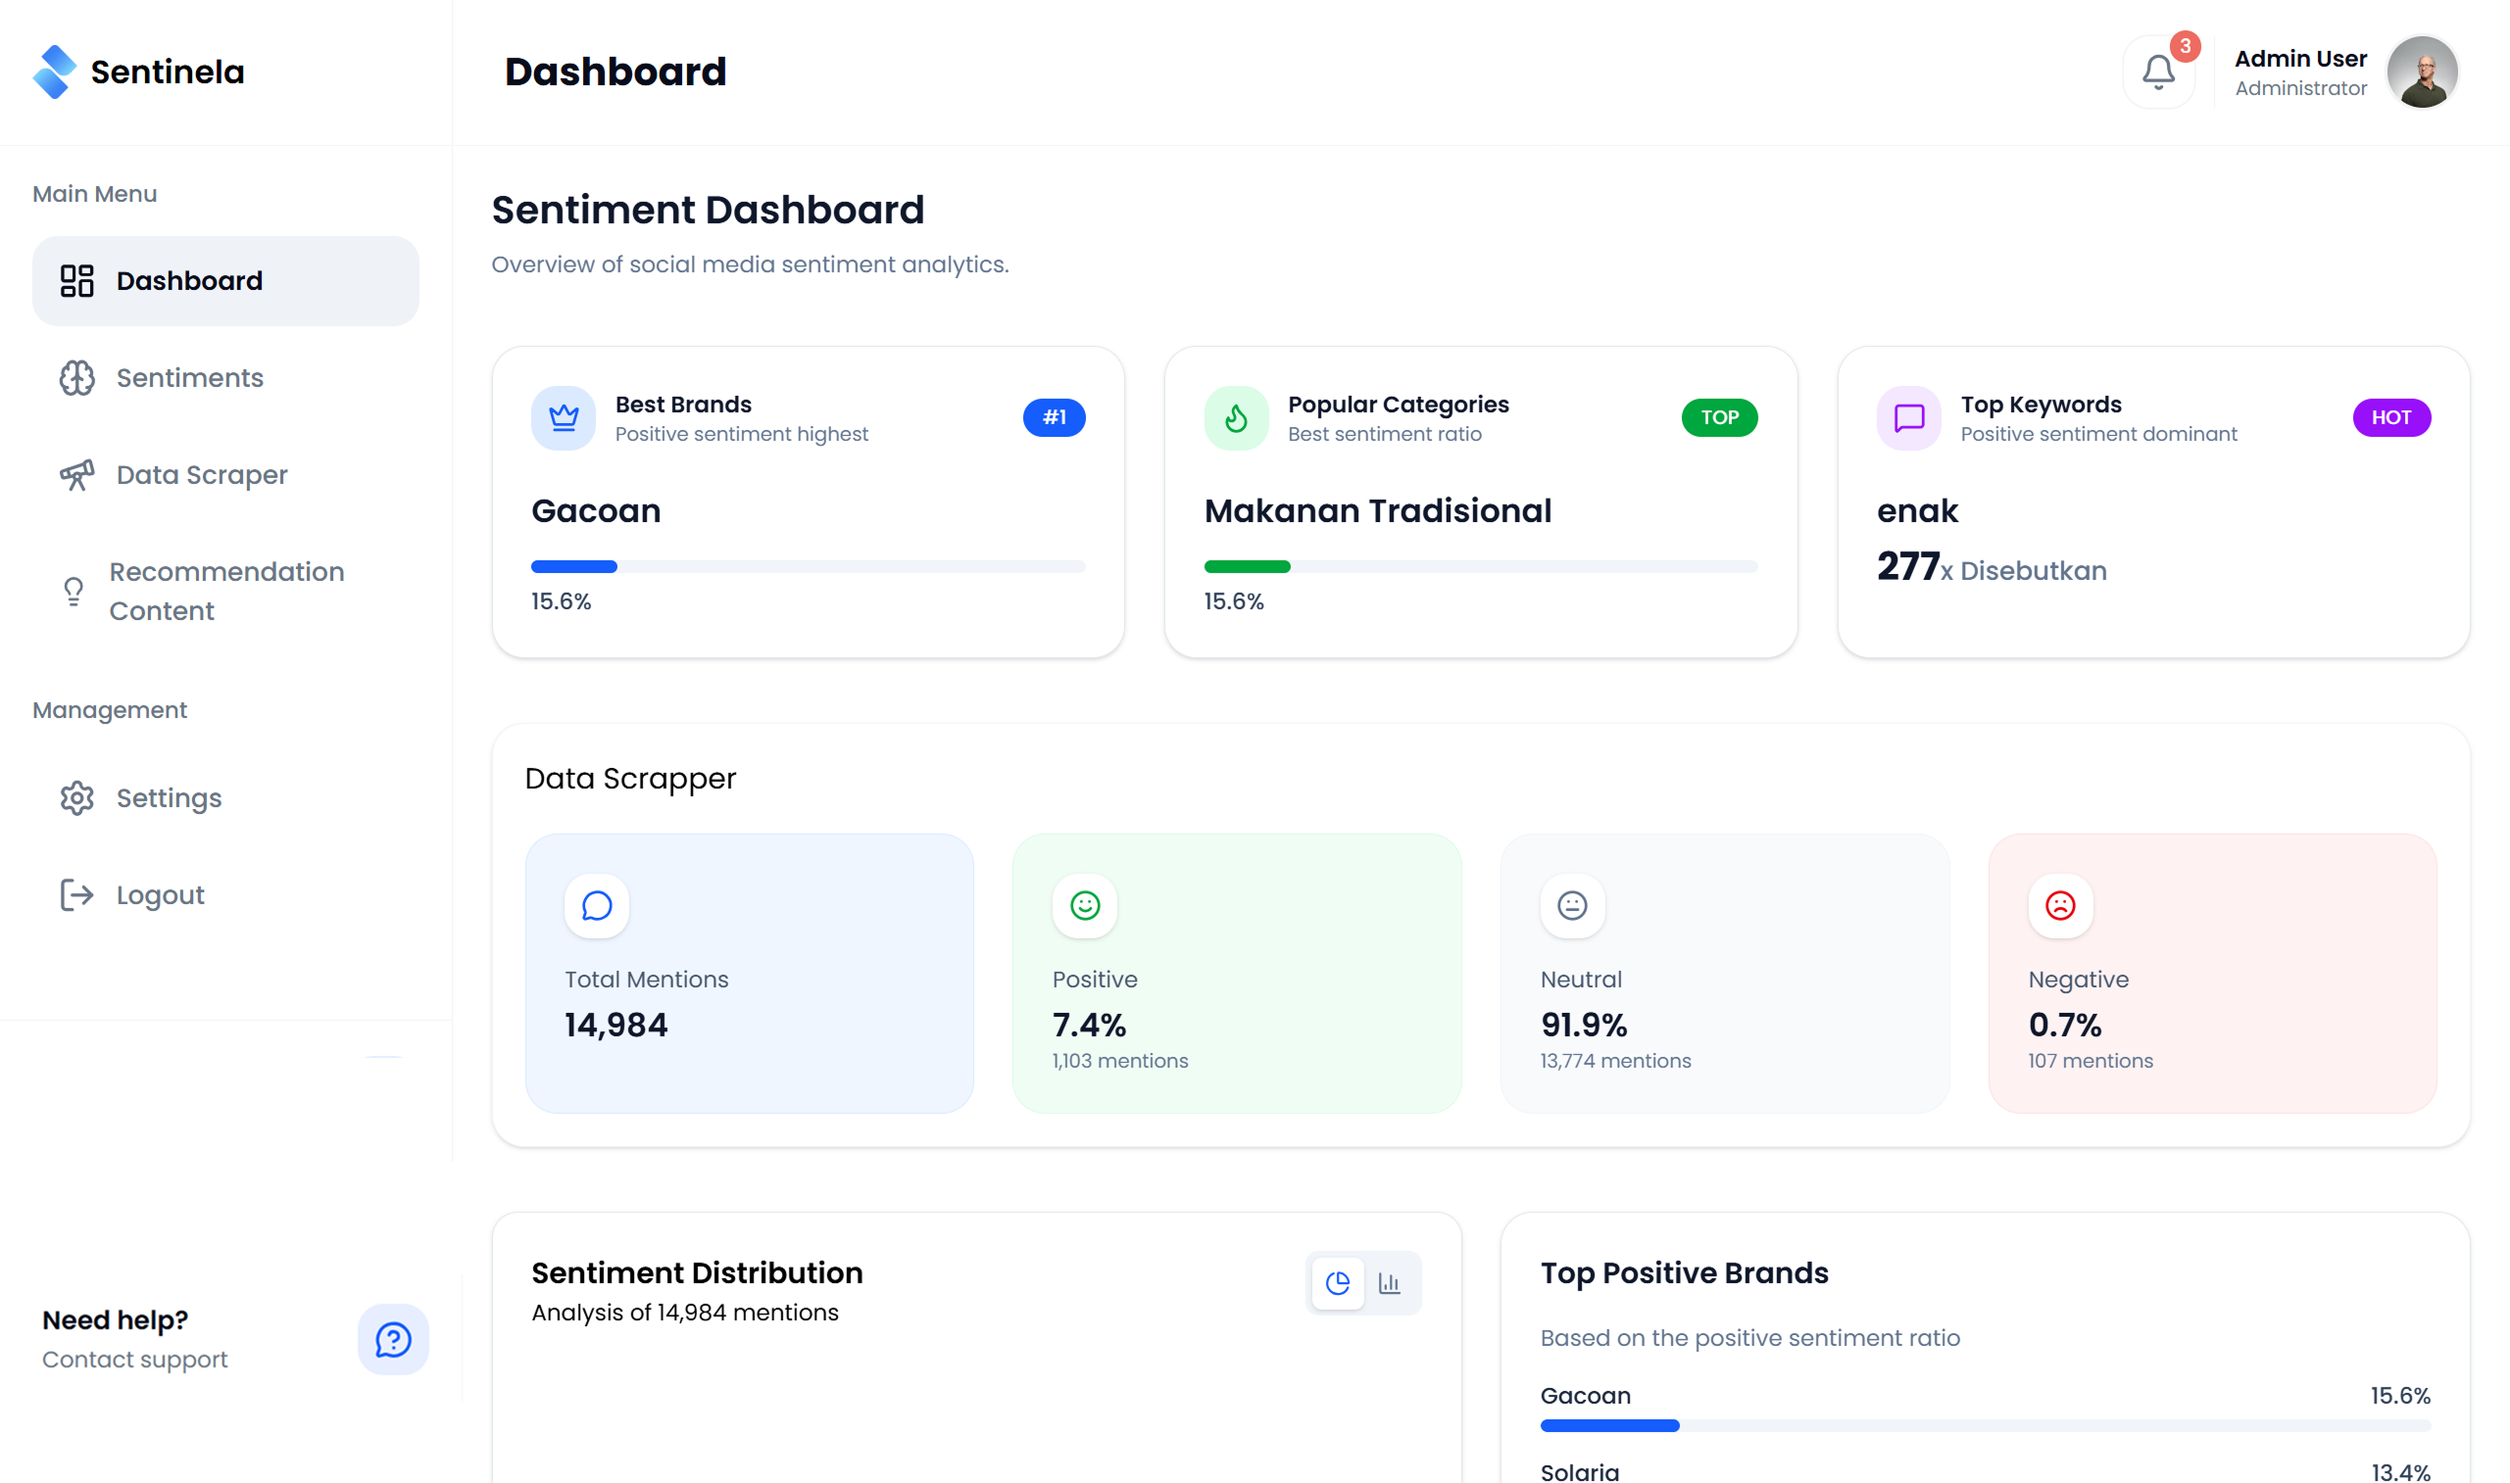
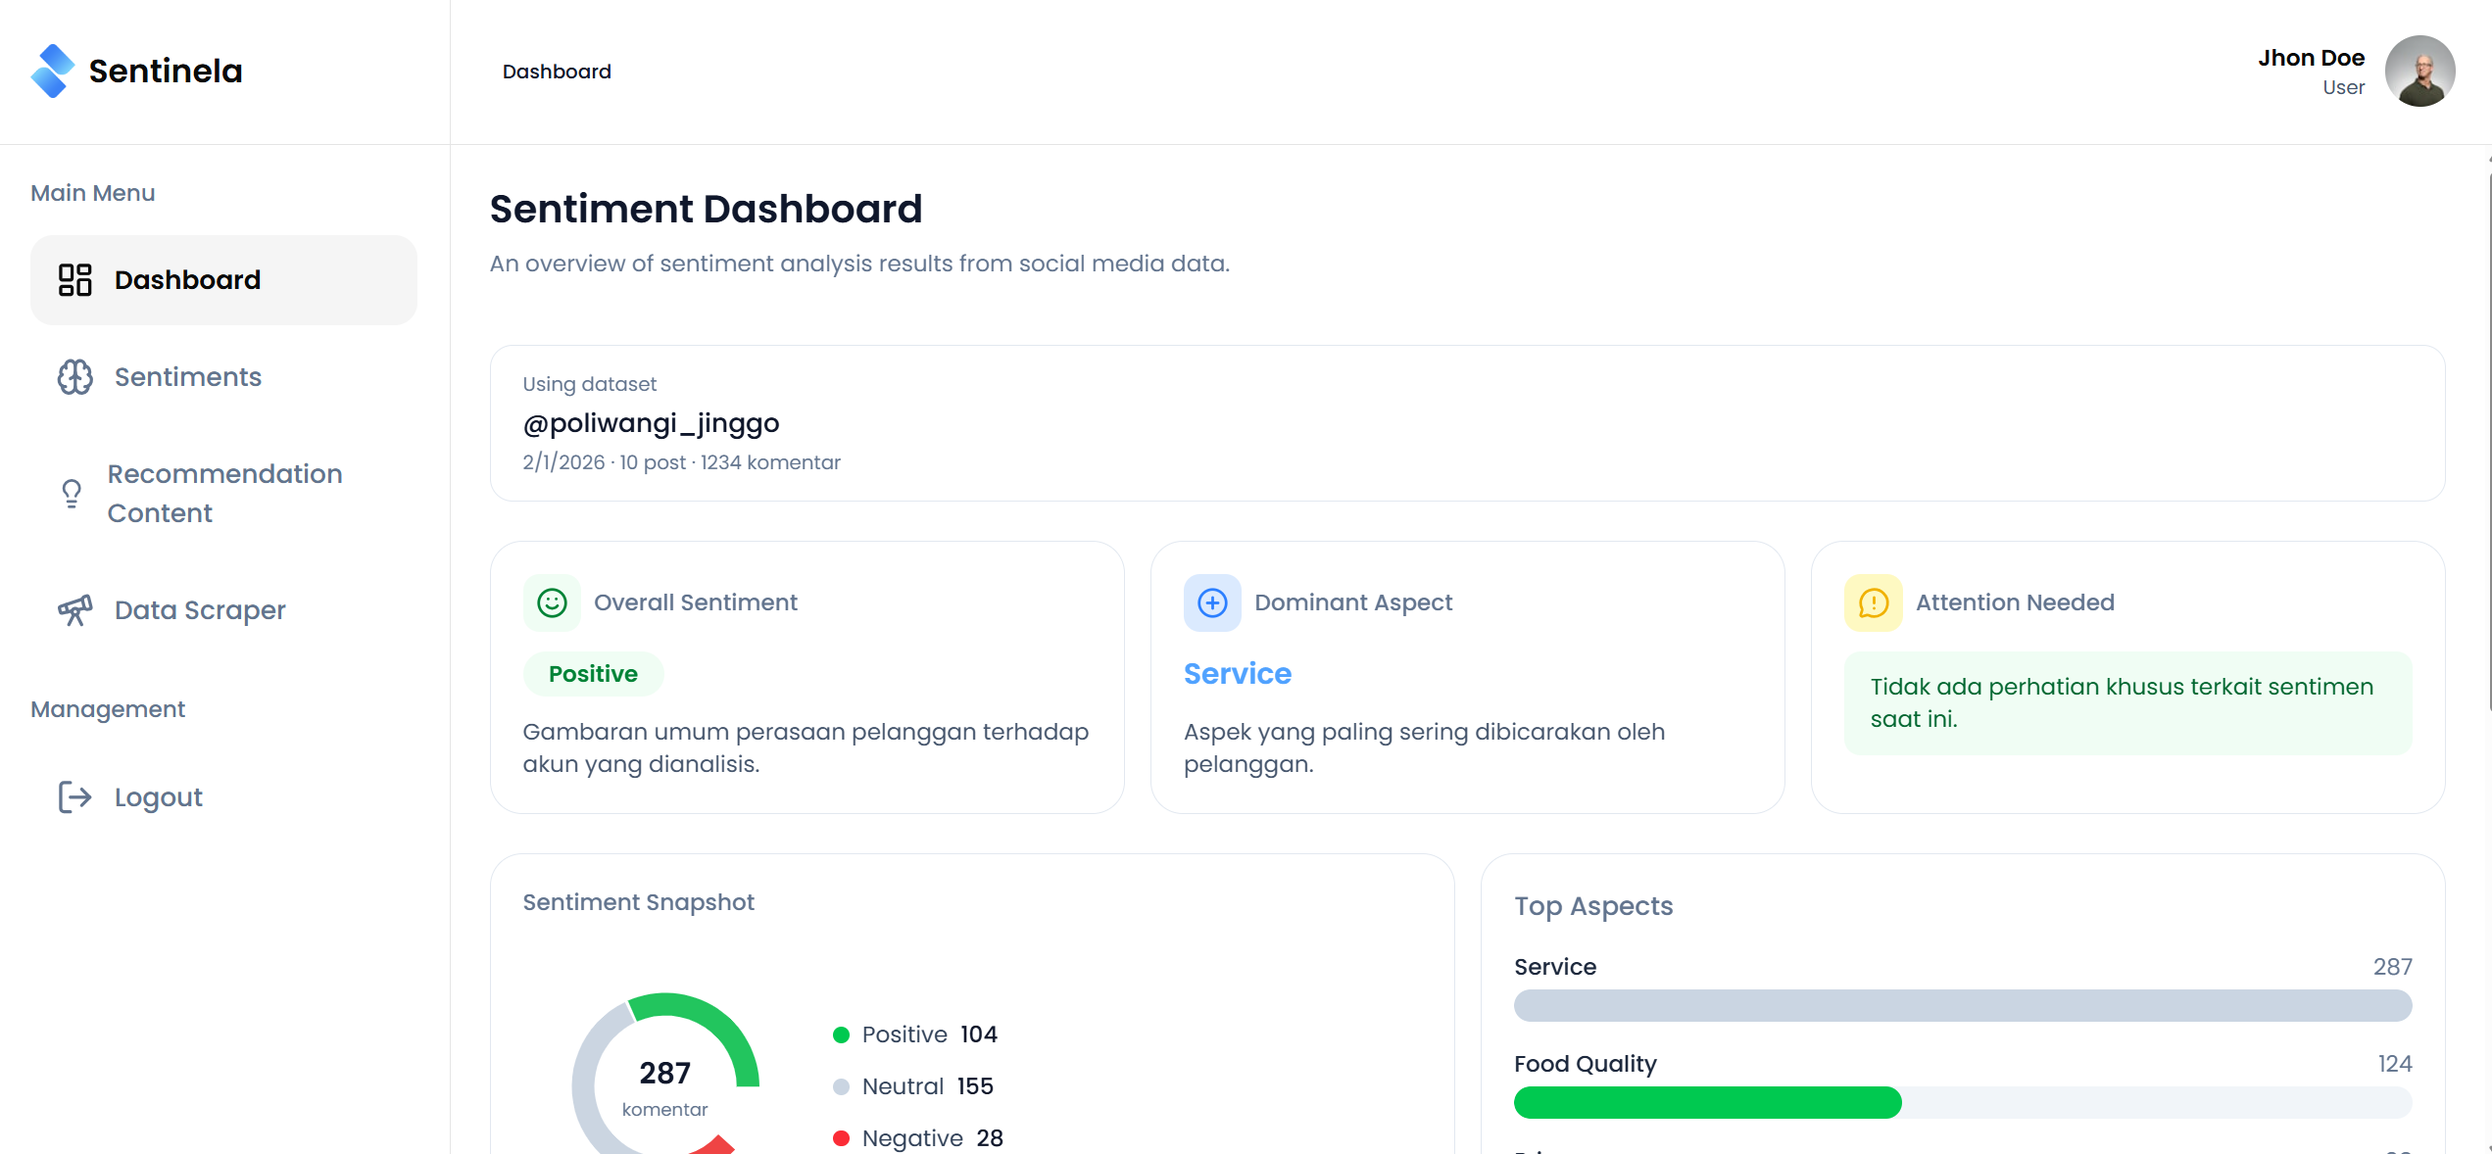
fix: fixing landing page navbar

diff --git a/src/features/LandingPage/components/Header.tsx b/src/features/LandingPage/components/Header.tsx
@@ -2,6 +2,7 @@ import { assets } from "@/assets/assets";
 import { motion, type Variants } from "framer-motion";
 import { Menu, X } from "lucide-react";
 import { useState } from "react";
+import { Link } from "react-router";
 const heroContainer: Variants = {
   hidden: {},
   visible: {
@@ -53,21 +54,20 @@ const Header = () => {
 
         {/* Desktop Menu */}
         <ul className="hidden md:flex items-center gap-8 text-sm font-medium text-slate-600">
-          <li className="hover:text-blue-600 cursor-pointer">About</li>
-          <li className="hover:text-blue-600 cursor-pointer">Features</li>
-          <li className="hover:text-blue-600 cursor-pointer">How it works</li>
-          <li className="hover:text-blue-600 cursor-pointer">Pricing</li>
-          <li className="text-blue-600 cursor-pointer">Contact Us</li>
+          <a href="#home" className="hover:text-blue-600 cursor-pointer">Home</a>
+          <a href="#features" className="hover:text-blue-600 cursor-pointer">Features</a>
+          <a href="#how-it-works" className="hover:text-blue-600 cursor-pointer">How it works</a>
+          <a href="#contact-us" className="hover:text-blue-600 cursor-pointer">Contact Us</a>
         </ul>
 
         {/* Desktop Actions */}
         <div className="hidden md:flex items-center gap-4">
-          <button className="text-sm font-medium text-slate-700 hover:text-blue-600">
+          <Link to="/login" className="text-sm font-medium text-slate-700 hover:text-blue-600">
             Login
-          </button>
-          <button className="rounded-lg bg-blue-600 px-4 py-2 text-sm font-medium text-white hover:bg-blue-700 transition">
+          </Link>
+          <Link to="/register" className="rounded-lg bg-blue-600 px-4 py-2 text-sm font-medium text-white hover:bg-blue-700 transition">
             Sign in
-          </button>
+          </Link>
         </div>
 
         {/* Mobile Hamburger */}
@@ -104,19 +104,18 @@ const Header = () => {
 
         {/* Drawer Menu */}
         <div className="px-5 py-6 space-y-4 text-sm font-medium text-slate-700">
-          <div className="hover:text-blue-600 cursor-pointer">About</div>
-          <div className="hover:text-blue-600 cursor-pointer">Features</div>
-          <div className="hover:text-blue-600 cursor-pointer">How it works</div>
-          <div className="hover:text-blue-600 cursor-pointer">Pricing</div>
-          <div className="text-blue-600 cursor-pointer">Contact Us</div>
+          <a href="#home" className="hover:text-blue-600 cursor-pointer">Home</a>
+          <a href="#features" className="hover:text-blue-600 cursor-pointer">Features</a>
+          <a href="#how-it-works" className="hover:text-blue-600 cursor-pointer">How it works</a>
+          <a href="#contact-us" className="hover:text-blue-600 cursor-pointer">Contact Us</a>
 
           <div className="pt-6 space-y-3">
-            <button className="w-full rounded-lg border border-slate-300 py-2">
+            <Link to="/login" className="w-full rounded-lg border border-slate-300 py-2">
               Login
-            </button>
-            <button className="w-full rounded-lg bg-blue-600 py-2 text-white">
+            </Link>
+            <Link to="/register" className="w-full rounded-lg bg-blue-600 py-2 text-white">
               Sign in
-            </button>
+            </Link>
           </div>
         </div>
       </aside>
@@ -128,6 +127,7 @@ const Header = () => {
         variants={heroContainer}
         initial="hidden"
         animate="visible"
+        id="home"
       >
         {/* Headline */}
         <motion.h1

diff --git a/src/components/dashboard/SidebarComponent.tsx b/src/components/dashboard/SidebarComponent.tsx
@@ -105,20 +105,6 @@ const SidebarComponent = () => {
             </Link>
 
             <Link
-              to="/dashboard/scrapes"
-              className={`group flex cursor-pointer ${isActive('/dashboard/scrapes') ? 'active' : ''}`}
-            >
-              <div className="flex w-full items-center rounded-xl p-4 gap-3 bg-white group-[.active]:bg-muted group-hover:bg-muted transition-all duration-300">
-                <Telescope
-                  className="size-6 text-slate-500 group-[.active]:text-foreground group-hover:text-foreground transition-all duration-300"
-                />
-                <span className="font-medium text-slate-500 group-[.active]:font-semibold group-[.active]:text-foreground group-hover:text-foreground transition-all duration-300">
-                  Data Scraper
-                </span>
-              </div>
-            </Link>
-
-            <Link
               to="/dashboard/recommendation-content"
               className={`group flex cursor-pointer ${isActive('/dashboard/recommendation-content') ? 'active' : ''}`}
             >
@@ -128,6 +114,21 @@ const SidebarComponent = () => {
                 />
                 <span className="font-medium text-slate-500 group-[.active]:font-semibold group-[.active]:text-foreground group-hover:text-foreground transition-all duration-300">
                   Recommendation Content
+                </span>
+              </div>
+            </Link>
+
+
+            <Link
+              to="/dashboard/scrapes"
+              className={`group flex cursor-pointer ${isActive('/dashboard/scrapes') ? 'active' : ''}`}
+            >
+              <div className="flex w-full items-center rounded-xl p-4 gap-3 bg-white group-[.active]:bg-muted group-hover:bg-muted transition-all duration-300">
+                <Telescope
+                  className="size-6 text-slate-500 group-[.active]:text-foreground group-hover:text-foreground transition-all duration-300"
+                />
+                <span className="font-medium text-slate-500 group-[.active]:font-semibold group-[.active]:text-foreground group-hover:text-foreground transition-all duration-300">
+                  Data Scraper
                 </span>
               </div>
             </Link>

diff --git a/src/main.tsx b/src/main.tsx
@@ -3,7 +3,7 @@ import { createRoot } from 'react-dom/client'
 import './index.css'
 import App from '@/routes/App'
 import { QueryClient, QueryClientProvider } from '@tanstack/react-query'
-import { ReactQueryDevtools } from '@tanstack/react-query-devtools'
+// import { ReactQueryDevtools } from '@tanstack/react-query-devtools'
 const queryClient = new QueryClient({
   defaultOptions: {
     queries: {
@@ -16,7 +16,7 @@ const queryClient = new QueryClient({
 createRoot(document.getElementById('root')!).render(
   <StrictMode>
     <QueryClientProvider client={queryClient}>
-      <ReactQueryDevtools initialIsOpen={false} />
+      {/* <ReactQueryDevtools initialIsOpen={false} /> */}
       <App />
     </QueryClientProvider>
   </StrictMode>,

diff --git a/src/features/LandingPage/components/FAQSection.tsx b/src/features/LandingPage/components/FAQSection.tsx
@@ -151,6 +151,7 @@ const FAQSection = () => {
         <motion.div
           className="mt-32 rounded-3xl bg-gradient-to-r from-slate-900 via-slate-800 to-slate-900 px-8 py-16 text-white md:px-16"
           initial="hidden"
+          id="contact-us"
           whileInView="visible"
           viewport={{ once: true, amount: 0.4 }}
           variants={ctaVariants}
@@ -176,7 +177,7 @@ const FAQSection = () => {
 
             {/* Input */}
             <form
-              onSubmit={(e : React.FormEvent) => {
+              onSubmit={(e: React.FormEvent) => {
                 e.preventDefault();
                 const formData = new FormData(e.target as HTMLFormElement);
                 const email = formData.get('email');

diff --git a/src/components/dashboard/TopHeaderBarComponent.tsx b/src/components/dashboard/TopHeaderBarComponent.tsx
@@ -72,8 +72,8 @@ const TopHeaderBarComponent = () => {
       {/* RIGHT */}
       <div className="hidden md:flex items-center gap-3">
         <div className="text-right">
-          <p className="font-semibold text-sm">Admin User</p>
-          <p className="text-xs text-slate-600">Administrator</p>
+          <p className="font-semibold text-sm">Jhon Doe</p>
+          <p className="text-xs text-slate-600">User</p>
         </div>
         <img
           src="https://images.unsplash.com/photo-1472099645785-5658abf4ff4e?w=100"

diff --git a/src/features/LandingPage/components/FeatureSection.tsx b/src/features/LandingPage/components/FeatureSection.tsx
@@ -6,7 +6,7 @@ import {
   Lightbulb,
   Database,
 } from "lucide-react";
-import { motion, type Variants,easeOut  } from "framer-motion";
+import { motion, type Variants, easeOut } from "framer-motion";
 
 const features = [
   {
@@ -74,7 +74,7 @@ const itemVariants: Variants = {
 
 const FeatureSection = () => {
   return (
-    <section className="mt-[250px] px-6">
+    <section id="features" className="mt-[250px] px-6">
       <div className="mx-auto max-w-7xl">
         {/* Section Header */}
         <motion.div

diff --git a/src/features/LandingPage/components/StepSection.tsx b/src/features/LandingPage/components/StepSection.tsx
@@ -63,7 +63,7 @@ const steps = [
 
 const StepSection = () => {
   return (
-    <section className="mt-[250px] px-6">
+    <section id="how-it-works" className="mt-[250px] px-6">
       <div className="mx-auto max-w-7xl text-center">
         {/* Header */}
         <motion.div

diff --git a/src/index.css b/src/index.css
@@ -15,6 +15,7 @@
 
   html {
     font-family: 'Poppins', sans-serif;
+    scroll-behavior: smooth;
   }
 }
 
